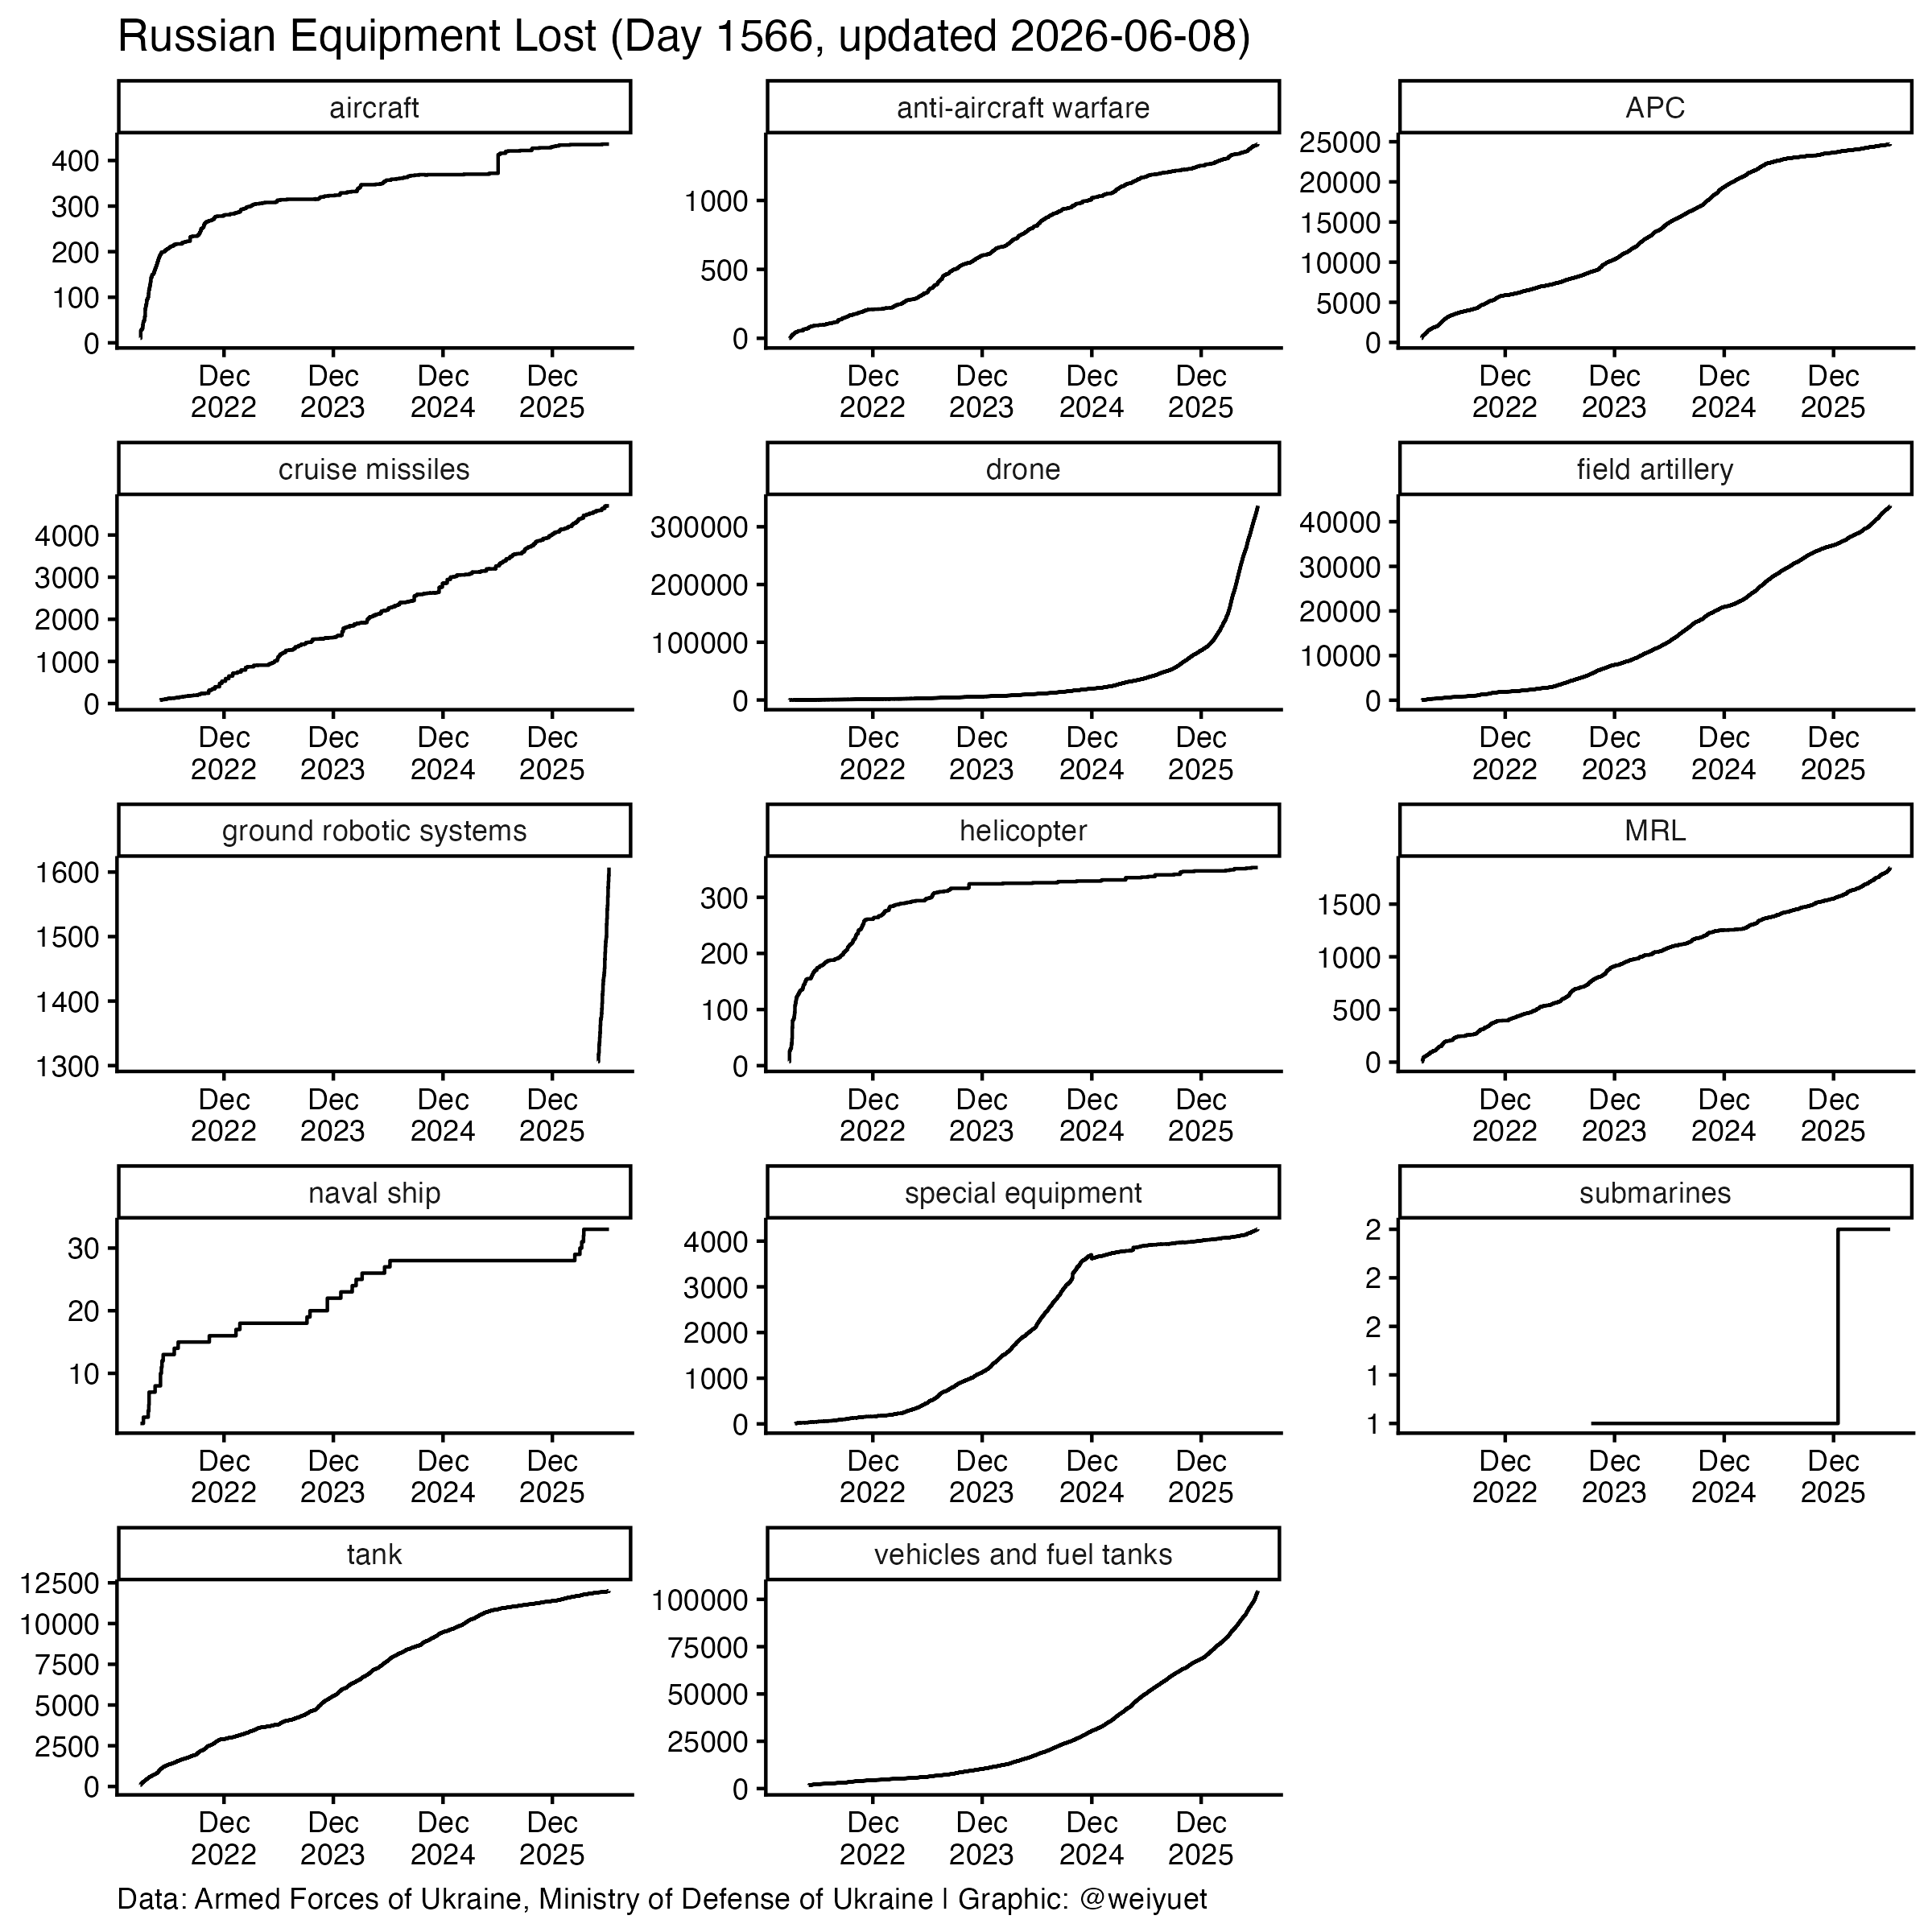
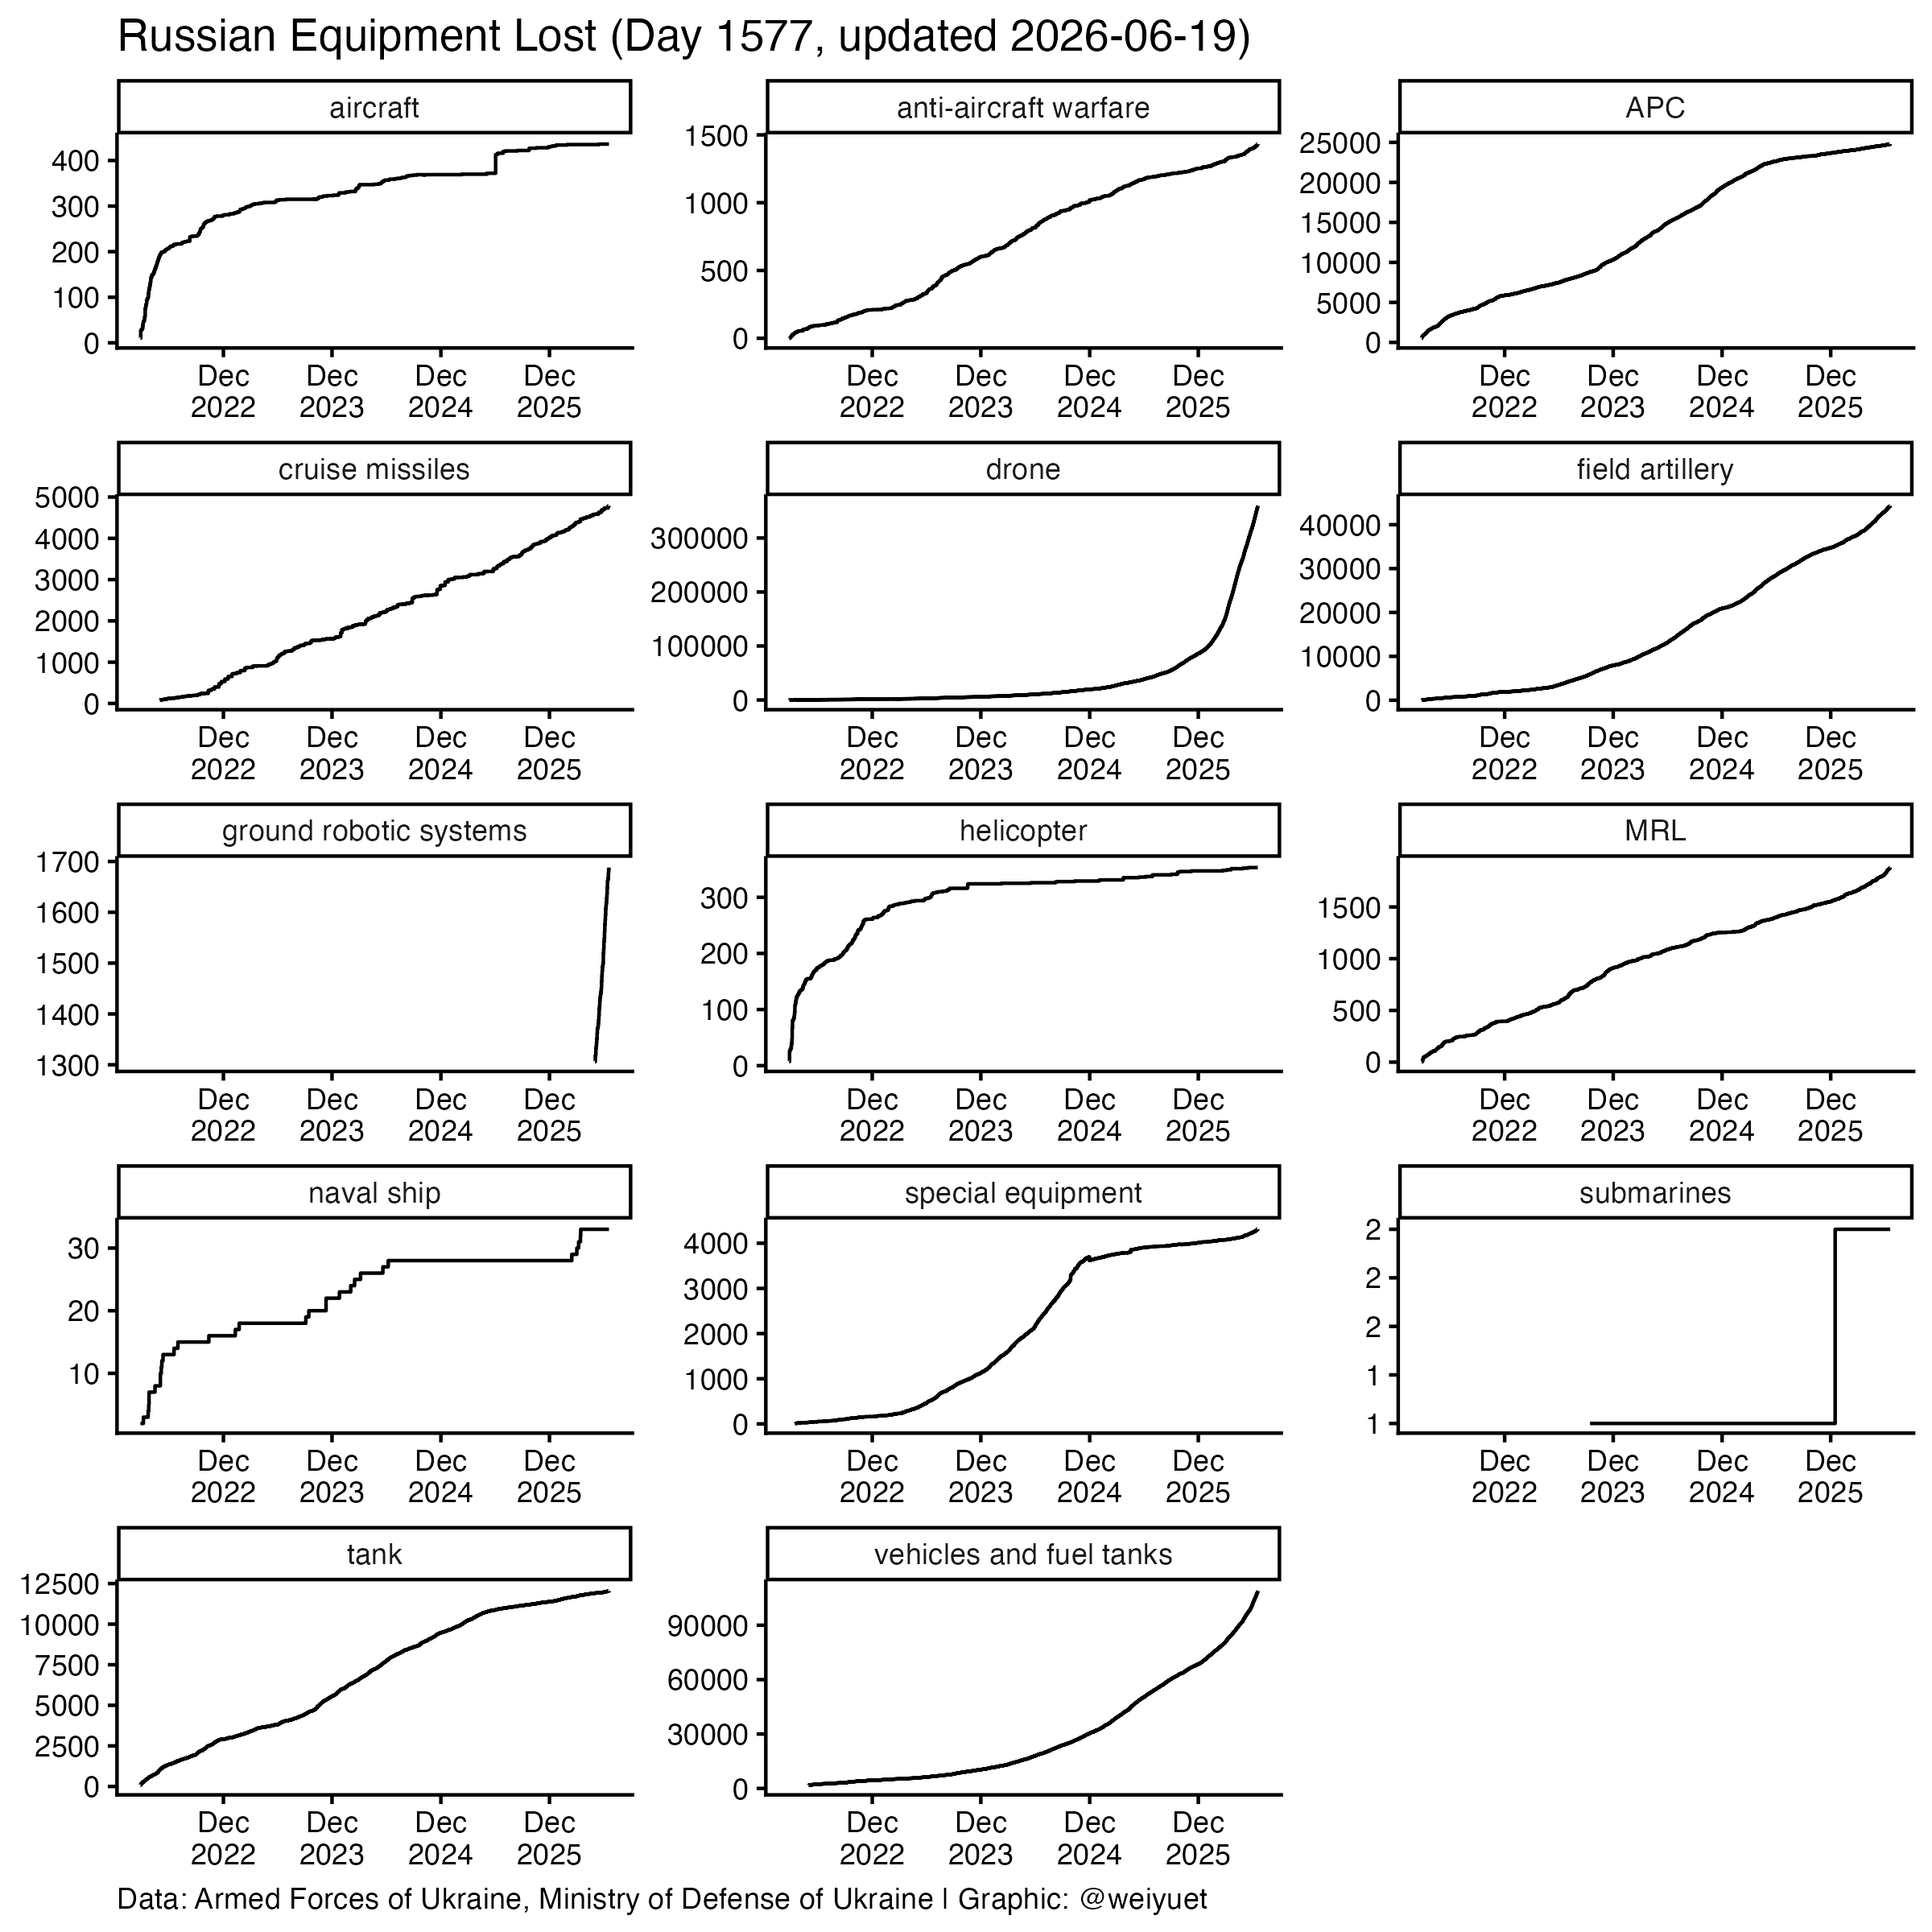
Updated 19 June

diff --git a/README.md b/README.md
@@ -2,7 +2,7 @@
 
 Created: 2022-05-26
 
-Updated: 2026-06-08
+Updated: 2026-06-19
 
   - First Inspired by [`Lena Sokol's Kaggle`](https://www.kaggle.com/code/sokolheavy/2022-ukraine-russia-war-visualization).
 